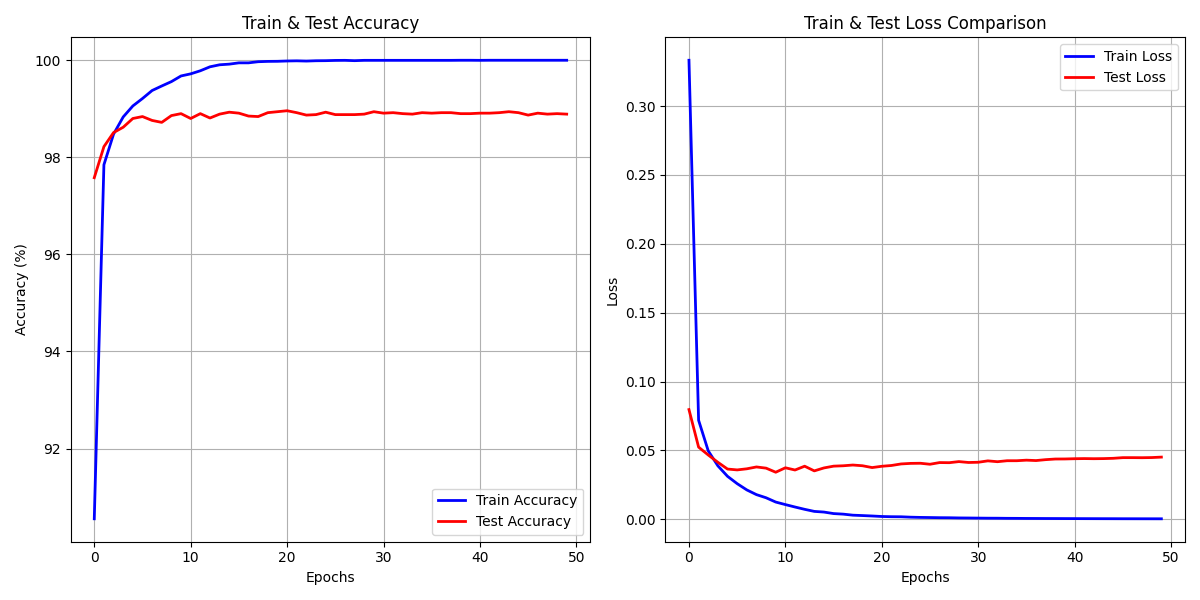
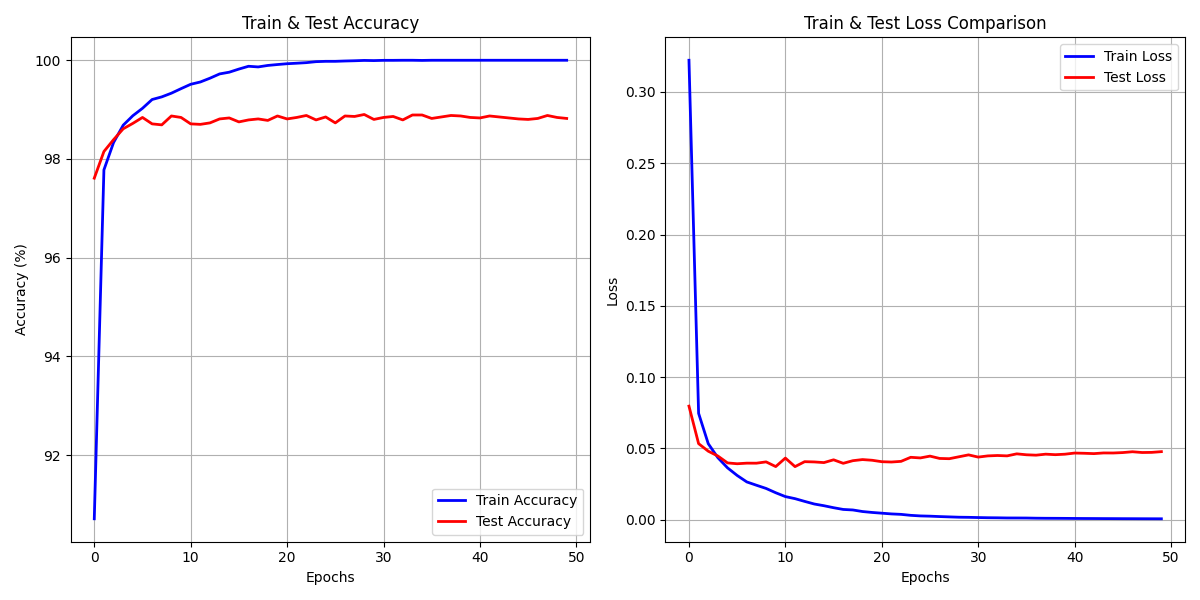
Update README & Modify code

diff --git a/main.py b/main.py
@@ -28,6 +28,9 @@ def set_env(args):
     torch.backends.cudnn.enabled = True
     torch.backends.cudnn.benchmark = True
 
+def count_parameters(model):
+    return sum(p.numel() for p in model.parameters() if p.requires_grad)
+
 set_env(args)
 
 def train(model, epoch, trn_loader, device, criterion, optimizer):
@@ -35,6 +38,7 @@ def train(model, epoch, trn_loader, device, criterion, optimizer):
 
     Args:
         model: network
+        epoch : epoch
         trn_loader: torch.utils.data.DataLoader instance for training
         device: device for computing, cpu or gpu
         criterion: cost function
@@ -129,7 +133,7 @@ def loss_acc_plot(filename, train_acc_history, train_loss_history, test_acc_hist
     plt.subplot(1, 2, 2)  # 1행 2열의 두 번째 위치
     plt.plot(train_loss_history, 'b-', label='Train Loss', linewidth=2)  # 파란색 실선
     plt.plot(test_loss_history, 'r-', label='Test Loss', linewidth=2)  # 빨간색 실선
-    plt.title('Train & Test Loss Comparison')
+    plt.title('Train & Test Loss')
     plt.xlabel('Epochs')
     plt.ylabel('Loss')
     plt.legend()
@@ -144,8 +148,8 @@ def plot_test_comparison(filename, test_acc_history, test_loss_history, custom_t
 
     # Testing Accuracy Comparison
     plt.subplot(1, 2, 1)
-    plt.plot(test_acc_history, 'r-s', label='LeNet5 Test Accuracy', linewidth=2, markersize=6)  # cyan, diamond markers
-    plt.plot(custom_test_acc_history, 'b-o', label='CustomMLP Test Accuracy', linewidth=2, markersize=6)  # black, x markers
+    plt.plot(test_acc_history, 'r-', label='LeNet5 Test Accuracy', linewidth=2, markersize=6)  # cyan, diamond markers
+    plt.plot(custom_test_acc_history, 'b-', label='CustomMLP Test Accuracy', linewidth=2, markersize=6)  # black, x markers
     plt.title('Test Accuracy Comparison')
     plt.xlabel('Epochs')
     plt.ylabel('Accuracy (%)')
@@ -154,8 +158,8 @@ def plot_test_comparison(filename, test_acc_history, test_loss_history, custom_t
 
     # Testing Loss Comparison
     plt.subplot(1, 2, 2)
-    plt.plot(test_loss_history, 'r-s', label='LeNet5 Test Loss', linewidth=2, markersize=6)  # yellow, vline markers
-    plt.plot(custom_test_loss_history, 'b-o', label='CustomMLP Test Loss', linewidth=2, markersize=6)  # orange, hexagon markers
+    plt.plot(test_loss_history, 'r-', label='LeNet5 Test Loss', linewidth=2, markersize=6)  # yellow, vline markers
+    plt.plot(custom_test_loss_history, 'b-', label='CustomMLP Test Loss', linewidth=2, markersize=6)  # orange, hexagon markers
     plt.title('Test Loss Comparison')
     plt.xlabel('Epochs')
     plt.ylabel('Loss')
@@ -204,6 +208,8 @@ def main():
     # Initialize LeNet5 Model
     LeNet = LeNet5(n_classes=10).cuda()
     Custom_model = CustomMLP(n_classes=10).cuda()
+    print(f'The number of LeNet5 parameters: {count_parameters(LeNet)}')
+    print(f'The number of LeNet5 parameters: {count_parameters(Custom_model)}')
 
     # Cost function & Optimizer
     criterion = torch.nn.CrossEntropyLoss()
@@ -240,7 +246,8 @@ def main():
 
     plot_test_comparison( './plot/test_performance_comparison.png', LeNet5_test_acc_history, LeNet5_test_loss_history, Custom_model_test_acc_history, Custom_model_test_loss_history)
 
-    print('='*20)
+    print('='*40)
+
     print(f'LeNet5 - Last epoch test acc: {LeNet5_test_acc_history[-1]}')
     print(f'Custom model - Last epoch test acc: {Custom_model_test_acc_history[-1]}')
 

diff --git a/model.py b/model.py
@@ -7,18 +7,17 @@ class LeNet5(nn.Module):
         super(LeNet5,self).__init__()
         self.feature_extractor = nn.Sequential(
             nn.Conv2d(in_channels=1, out_channels=6, kernel_size=5, stride=1),
-            nn.Tanh(),
-            nn.MaxPool2d(kernel_size=2),
+            nn.ReLU(), # different with original LeNet5(Tanh)
+            nn.MaxPool2d(kernel_size=2), # different with original LeNet5(Avgpool)
             nn.Conv2d(in_channels=6, out_channels=16, kernel_size=5, stride=1),
-            nn.Tanh(),
+            nn.ReLU(),
             nn.MaxPool2d(kernel_size=2),
-            nn.Conv2d(in_channels=16, out_channels=120, kernel_size=5, stride=1),
-            nn.Tanh()
+            nn.Conv2d(in_channels=16, out_channels=120, kernel_size=5, stride=1)
         )
 
         self.Classifier = nn.Sequential(
             nn.Linear(in_features=120, out_features=84),
-            nn.Tanh(),
+            nn.ReLU(),
             nn.Linear(in_features=84, out_features=n_classes)
         )
 
@@ -42,15 +41,14 @@ class CustomMLP(nn.Module):
         self.feature_extractor = nn.Sequential(
             nn.Conv2d(in_channels=1, out_channels=6, kernel_size=5, stride=1),
             nn.BatchNorm2d(6), # Add batch normalization to improve gradient flow
-            nn.ReLU(), # Change activation function
+            nn.ReLU(),
             nn.MaxPool2d(kernel_size=2),
             nn.Conv2d(in_channels=6, out_channels=16, kernel_size=5, stride=1),
             nn.BatchNorm2d(16),
             nn.ReLU(),
             nn.MaxPool2d(kernel_size=2),
             nn.Conv2d(in_channels=16, out_channels=120, kernel_size=5, stride=1),
-            nn.BatchNorm2d(120),
-            nn.ReLU()
+            nn.BatchNorm2d(120)
         )
 
         self.Classifier = nn.Sequential(

diff --git a/README.md b/README.md
@@ -2,14 +2,25 @@
 인공신경망과 딥러닝 강의 Toy Project입니다.
 
 ============================================
+## Experiment Setting
+>- epoch : 30
+>- batch_size : 64
 
 ## 코드 실행 명령어
 
 ```
-python main.py --batch_size 64 --num_epochs 50
+python main.py --batch_size 64 --num_epochs 30
 ```
 
-
 ## Custom MLP와 LeNet-5와의 차이점
->1. ㄹㅇㅇㄹ
->2. ㄹㅇㄹㅁㅇㄴㄹ
+LeNet-5보다 더 나은 일반화성능을 보이기 위해, Custom MLP 모델과 학습 과정에서 여러가지 Regularization 기법을 적용
+1. Augmentation
+    - transforms.RandomRotation(degrees=0.3)
+    - transforms.RandomAffine(degrees=10, translate=(0.1, 0.1), scale=(0.9, 1.1))
+    - transforms.ColorJitter(brightness=0.2, contrast=0.2)
+2. Dropout
+    - dropout rate : 0.3
+3. Batch Nomarlization
+
+## Accuracy & Loss plot
+
